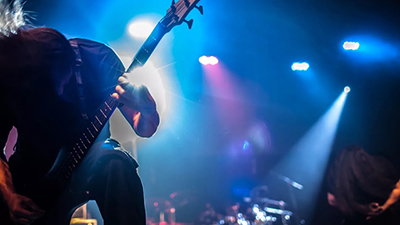
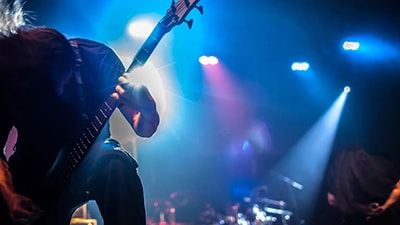
Images optimized

diff --git a/source/sass/modules/slider-controls.scss b/source/sass/modules/slider-controls.scss
@@ -19,6 +19,7 @@
   background-color: transparent;
   border: 1px solid #f8f8f8;
   border-radius: 50%;
+  cursor: pointer;
 
   &.is-current {
     background-color: white;

diff --git a/source/sass/modules/page-header.scss b/source/sass/modules/page-header.scss
@@ -66,6 +66,7 @@
     flex-grow: 1;
     position: static;
     left: auto;
+    z-index: auto;
     display: block;
     width: auto;
     margin-left: auto;
